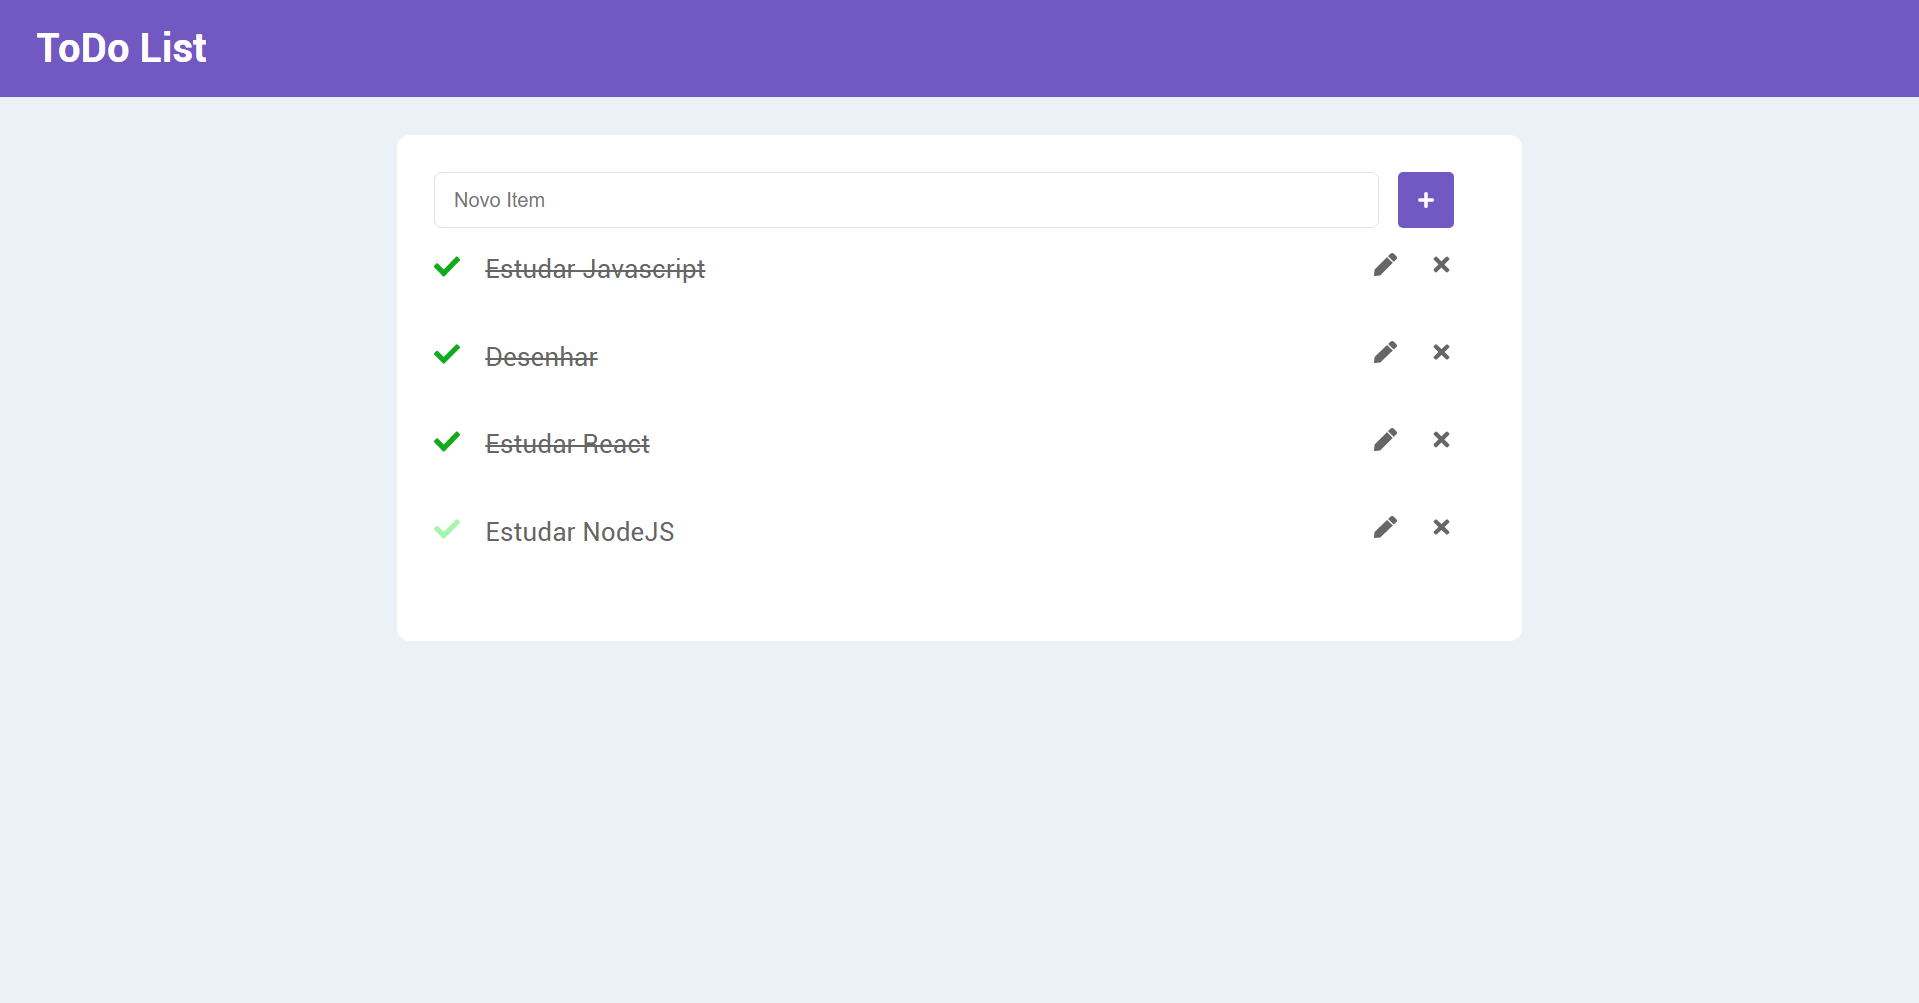
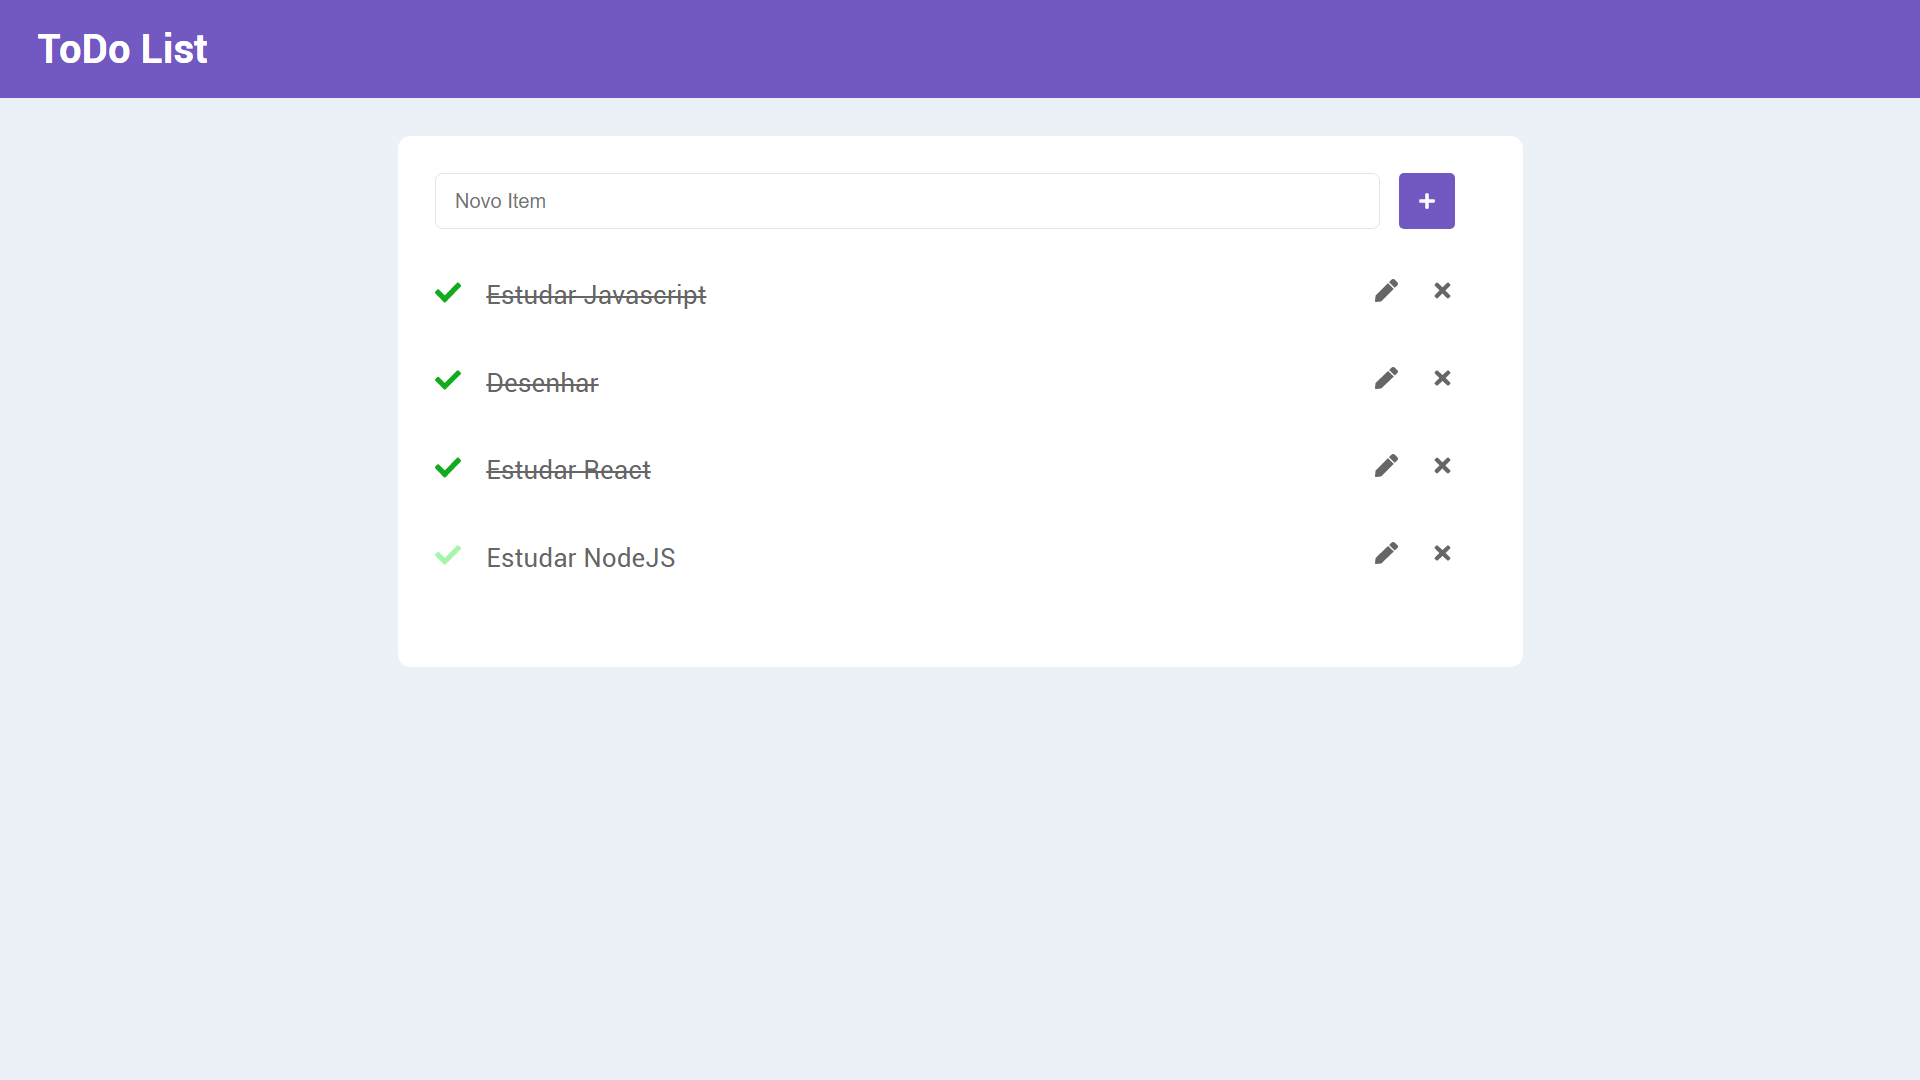
layout details fixed

diff --git a/frontend/src/components/container.js b/frontend/src/components/container.js
@@ -17,7 +17,7 @@ const Container = styled.div`
     form{
         display:flex;
         flex-direction:row;
-        margin-bottom:20px;
+        margin-bottom:40px;
     }
 
     input{
